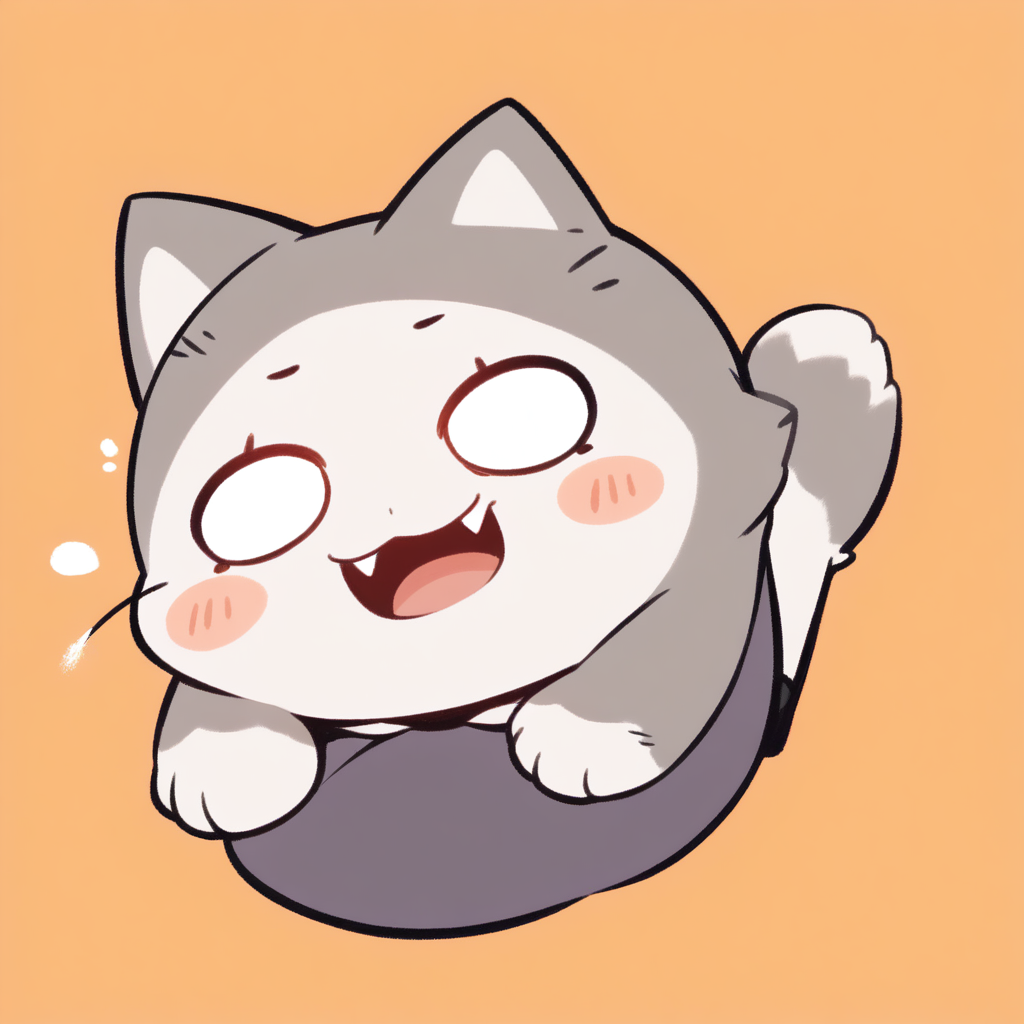
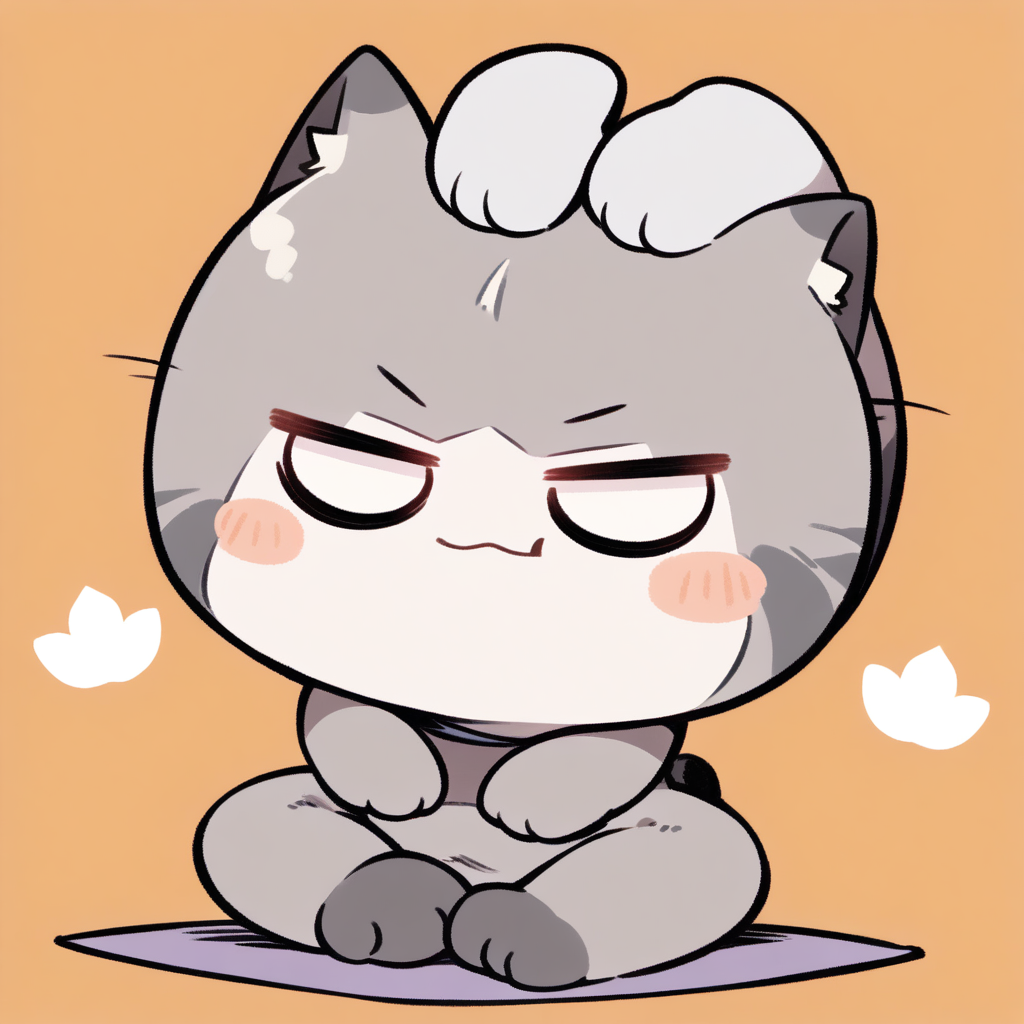
v12: QA 門檻改回 ≥4，修 #06 瑜珈（lotus pose + bg_uniform 通過）

diff --git a/qa/aesthetics.py b/qa/aesthetics.py
@@ -3,7 +3,7 @@ import re
 from qa import ollama
 
 
-def check(image_path, emotion, character_desc, min_score=5):
+def check(image_path, emotion, character_desc, min_score=4):
     """Returns (passed: bool, detail: str)."""
     prompt = (
         f'This is a {character_desc} for a LINE sticker/emoji product. '

diff --git a/qa/quality.py b/qa/quality.py
@@ -3,7 +3,7 @@ import re
 from qa import ollama
 
 
-def check(image_path, emotion, character_desc, min_score=5):
+def check(image_path, emotion, character_desc, min_score=4):
     """Returns (passed: bool, detail: str)."""
     prompt = (
         f'Rate this {character_desc} image quality from 1 to 5. '
